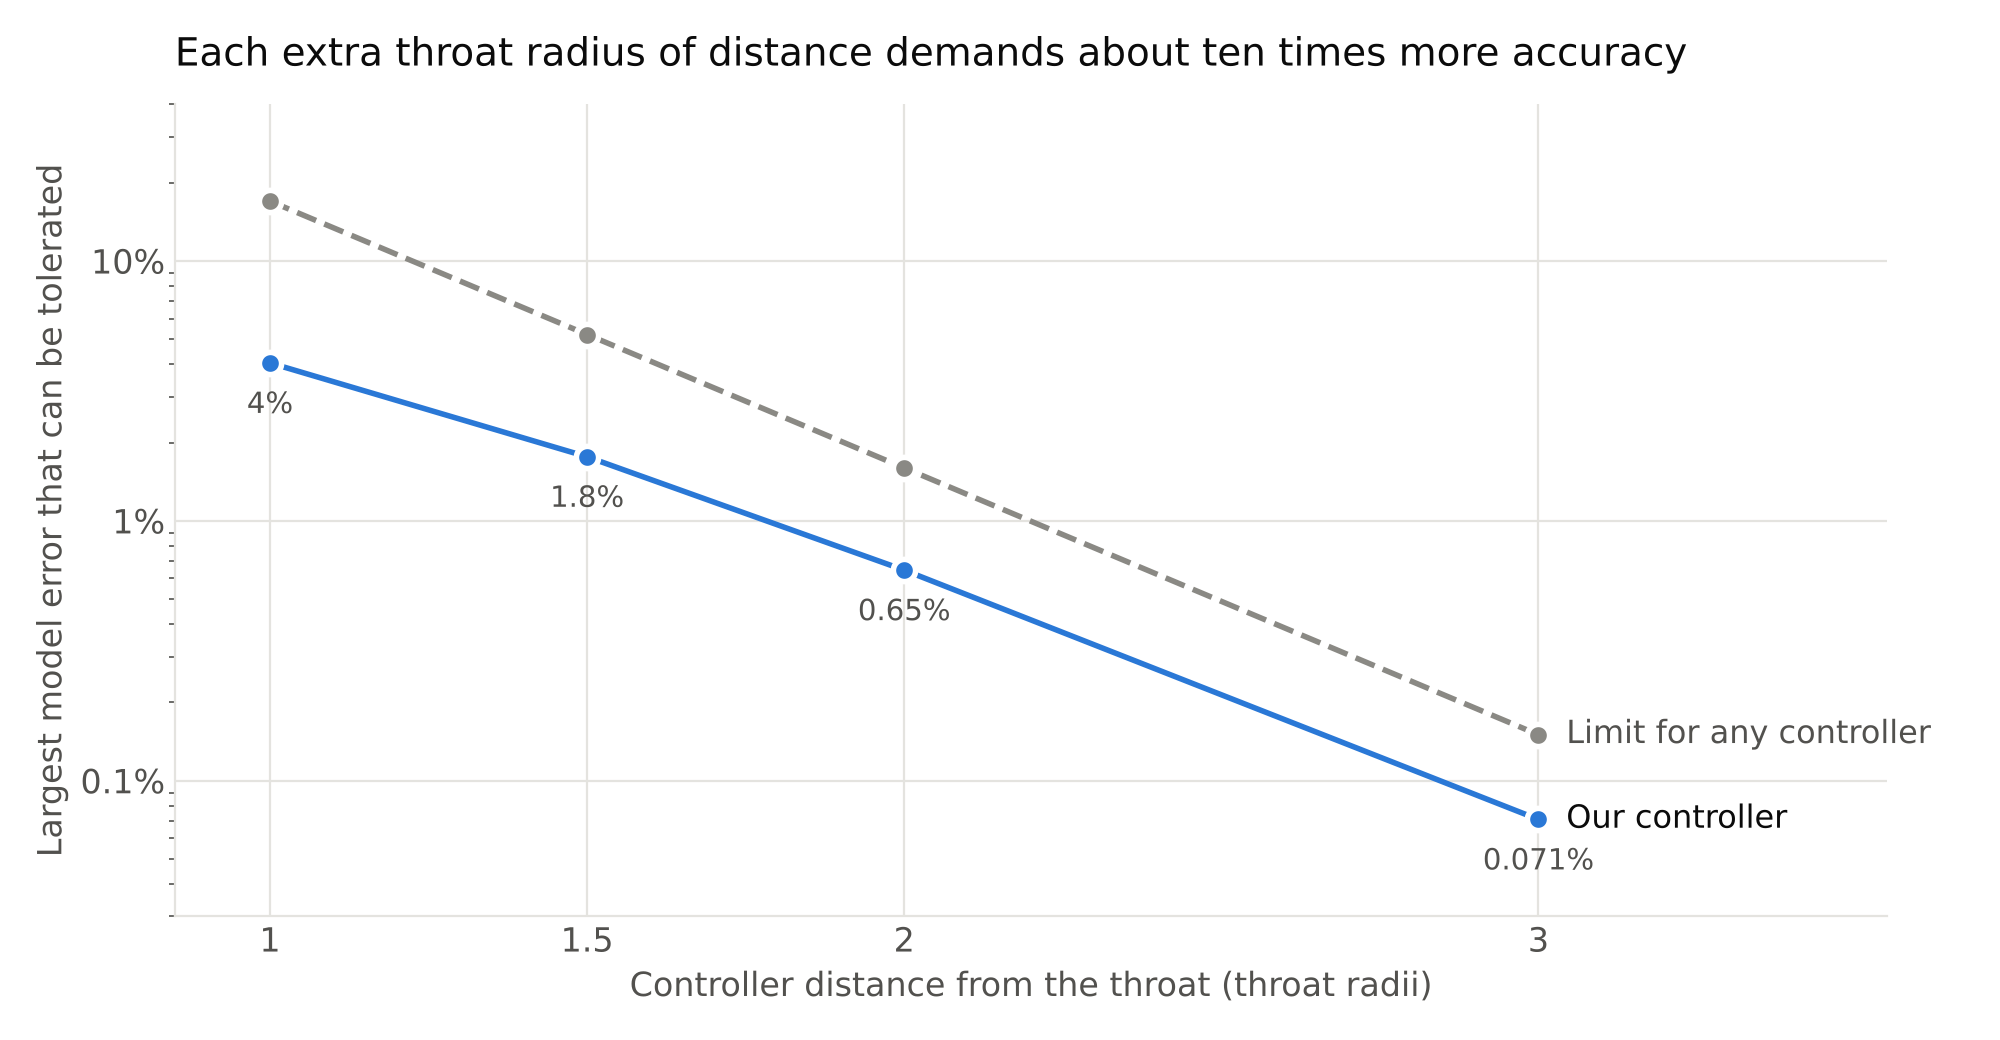
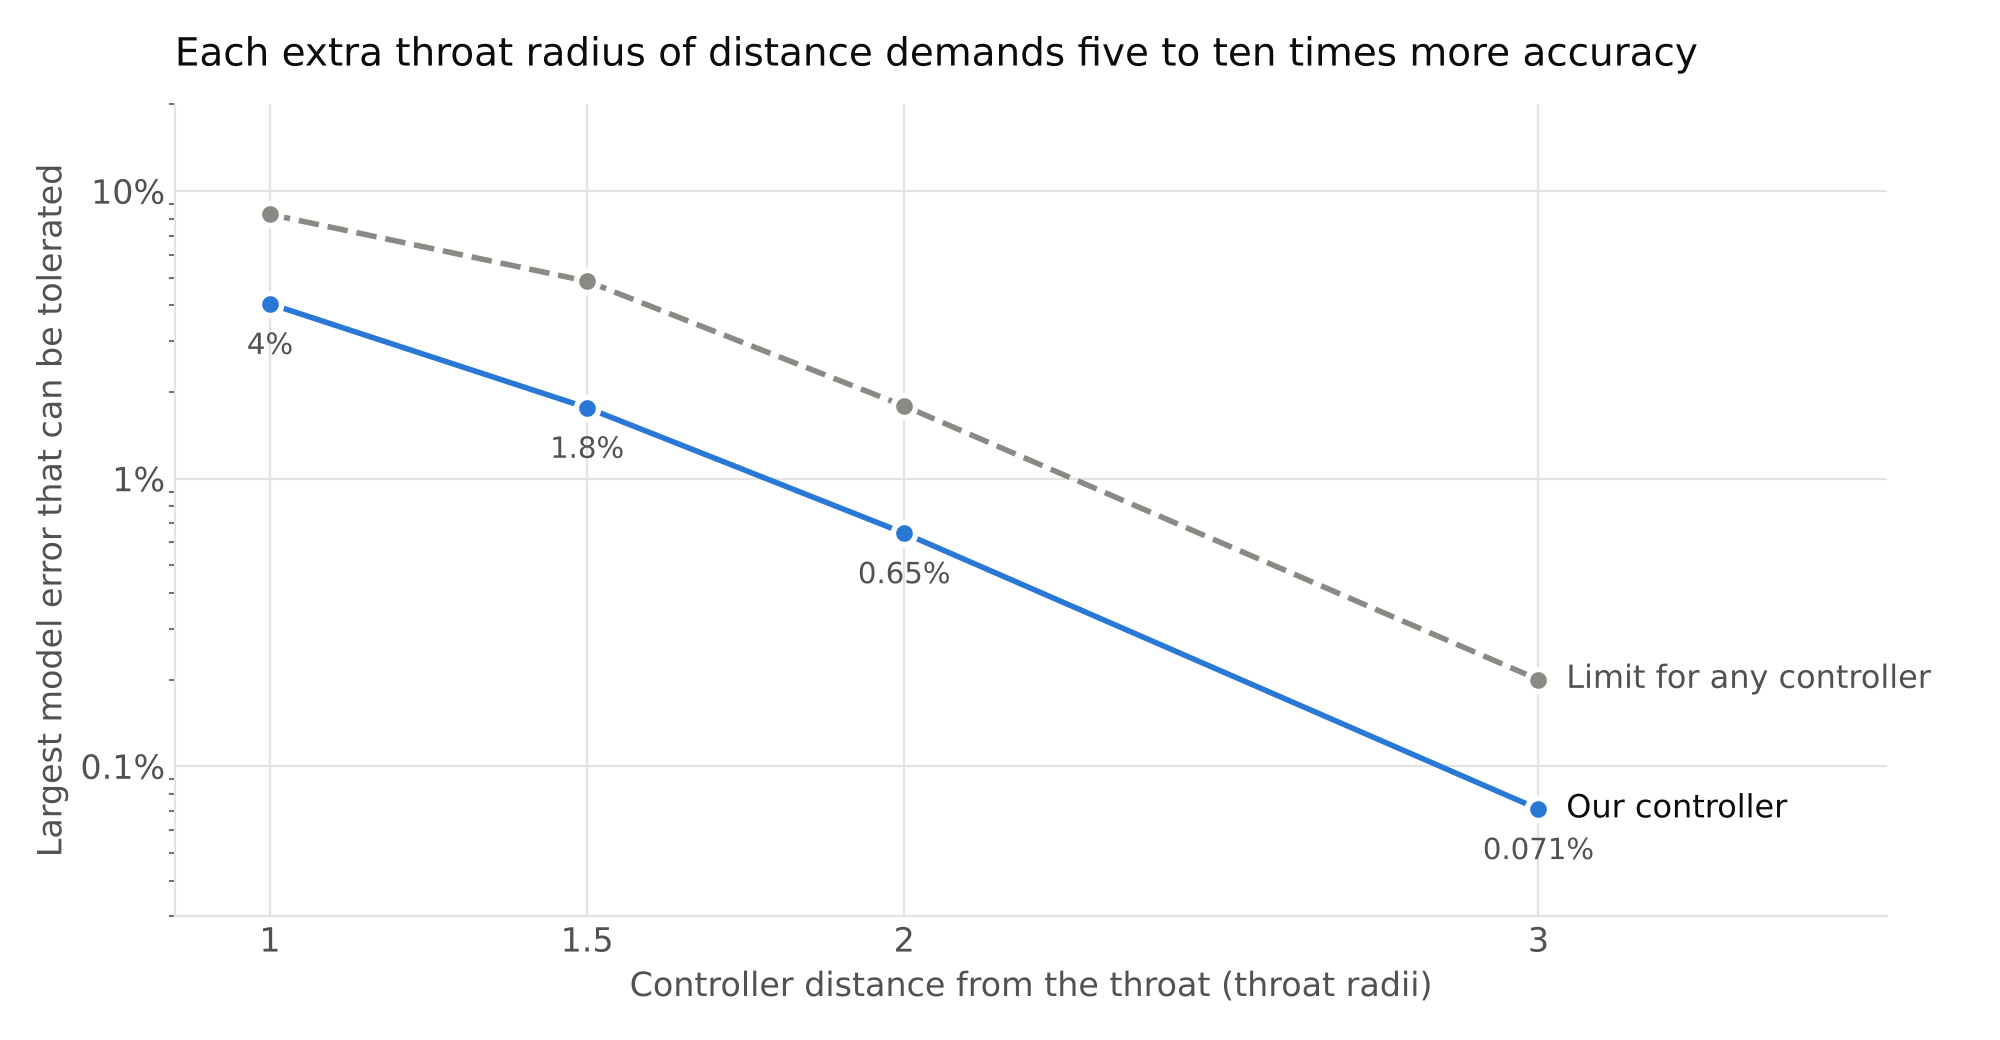
Delay bound with the plant's right-half-plane zero; redraw distance chart
bound_zeros.py computes the exact dead time, each channel's zeros and the
zeros both channels share, and the interpolation bound. The common real zero
(s = 0.55, 0.37, 0.28, 0.18 /b at d = 1, 1.5, 2, 3) tightens the bound to
8.3, 4.9, 1.8, 0.20%; the LQG designs reach 4.0, 1.8, 0.65, 0.071%.

Claude-Session: https://claude.ai/code/session_01A6qv3qA2pFg6A4oa4zvuqa

diff --git a/bound_zeros.py b/bound_zeros.py
@@ -1,0 +1,41 @@
+"""Delay bound with the plant's right-half-plane zero (paper Sec. 7).
+
+For each controller distance, builds the LQG plant model (control_lqg.build_model), finds the exact dead time
+(first non-zero Markov parameter), the transmission zeros of each output channel, and the zeros the two channels
+share. Interpolation bound on the input complementary sensitivity: ||T|| >= |p|^m * prod |(1 - conj(z) p)/(p - z)|
+over zeros outside the unit circle (p = e^(lam h), m = dead time in samples). Writes results_bound_zeros.json.
+"""
+import json, math, numpy as np, scipy.linalg as sl
+from control_lqg import build_model
+R = json.load(open("results_lqg_margins.json"))["rows"]
+ach = {r['d']: 100*r['tolerated_fractional_plant_error'] for r in R}
+rows = []
+for d in (1.0, 1.5, 2.0, 3.0):
+    m = build_model(d); A, B, C = m['A'], m['B'], m['C']; n = A.shape[0]
+    p = math.exp(m['lam']*0.25)
+    def zeros(Cc):
+        M1 = np.block([[A, B], [Cc, np.zeros((1, 1))]]); M2 = np.zeros_like(M1); M2[:n, :n] = np.eye(n)
+        w = sl.eigvals(M1, M2); return w[np.isfinite(w)]
+    def reldeg(Cc):
+        x = B.copy()
+        for k in range(n + 1):
+            if abs((Cc @ x)[0, 0]) > 1e-12: return k + 1
+            x = A @ x
+    zr, zt = zeros(C[0:1]), zeros(C[1:2])
+    rd = min(reldeg(C[0:1]), reldeg(C[1:2]))
+    # zeros common to both channels (within 1e-3 relative), outside the unit circle
+    common = [z for z in zr if abs(z) > 1 + 1e-9 and min(abs(zt - z)) < 1e-3*abs(z)]
+    fz = 1.0
+    for z in common: fz *= abs((1 - np.conj(z)*p)/(p - z))
+    full = lambda zs, rdc: 100/(p**rdc*np.prod([abs((1 - np.conj(z)*p)/(p - z)) for z in zs if abs(z) > 1 + 1e-9]))
+    rows.append({'d': d, 'common_zeros_z': [complex(round(z.real, 4), round(z.imag, 4)) for z in common],
+                 'zero_s': [round(math.log(abs(z))/0.25, 3) for z in common],
+                 'zero_factor': round(fz, 3), 'dead_time_samples': rd,
+                 'bound_paper_pct': round(100*math.exp(-m['lam']*(2*d - 0.5)), 3),
+                 'bound_exact_delay_pct': round(100/p**rd, 3),
+                 'bound_two_channel_pct': round(100/(p**rd*fz), 3),
+                 'bound_radius_only_pct': round(full(zr, reldeg(C[0:1])), 3),
+                 'bound_rate_only_pct': round(full(zt, reldeg(C[1:2])), 3),
+                 'lqg_achieved_pct': round(ach[d], 3)})
+for r in rows: print(r)
+json.dump([{k: (float(v) if hasattr(v, 'dtype') else ([[z.real, z.imag] for z in v] if k == 'common_zeros_z' else v)) for k, v in r.items()} for r in rows], open('results_bound_zeros.json', 'w'), indent=1)

diff --git a/article/make_figures.py b/article/make_figures.py
@@ -39,7 +39,8 @@ fig.tight_layout(); fig.savefig('article/fig2_throat.png', dpi=200)
 # ---- Figure 3: model accuracy needed against controller distance -----------------
 M = json.load(open('results_lqg_margins.json'))['rows']
 d = np.array([r['d'] for r in M]); ours = np.array([100*r['tolerated_fractional_plant_error'] for r in M])
-bestp = np.array([100/r['growth_over_effective_delay'] for r in M])
+Bz = {r['d']: r for r in json.load(open('results_bound_zeros.json'))}
+bestp = np.array([Bz[r['d']]['bound_two_channel_pct'] for r in M])
 fig, ax = plt.subplots(figsize=(10, 5.2))
 style(ax)
 ax.set_yscale('log')
@@ -50,10 +51,10 @@ ax.annotate('Our controller', (d[-1], ours[-1]), xytext=(10, 0), textcoords='off
 for x, y in zip(d, ours):
     ax.annotate(('%.2g%%' % y), (x, y), xytext=(0, -18), textcoords='offset points', ha='center', color=INK2, fontsize=10.5)
 ax.set_xticks(d); ax.set_xticklabels(['1', '1.5', '2', '3'])
-ax.set_xlim(0.85, 3.55); ax.set_ylim(0.03, 40)
+ax.set_xlim(0.85, 3.55); ax.set_ylim(0.03, 20)
 ax.yaxis.set_major_formatter(matplotlib.ticker.FuncFormatter(lambda v, _: ('%g%%' % v)))
 ax.set_xlabel('Controller distance from the throat (throat radii)')
 ax.set_ylabel('Largest model error that can be tolerated')
-ax.set_title('Each extra throat radius of distance demands about ten times more accuracy', loc='left', color=INK, fontsize=14, pad=14)
+ax.set_title('Each extra throat radius of distance demands five to ten times more accuracy', loc='left', color=INK, fontsize=14, pad=14)
 fig.tight_layout(); fig.savefig('article/fig3_distance.png', dpi=200)
 print('raw', raw[2], 'best', best[2], 'fb', float(fb['lifetime']), 'ours', ours, 'best', bestp)
